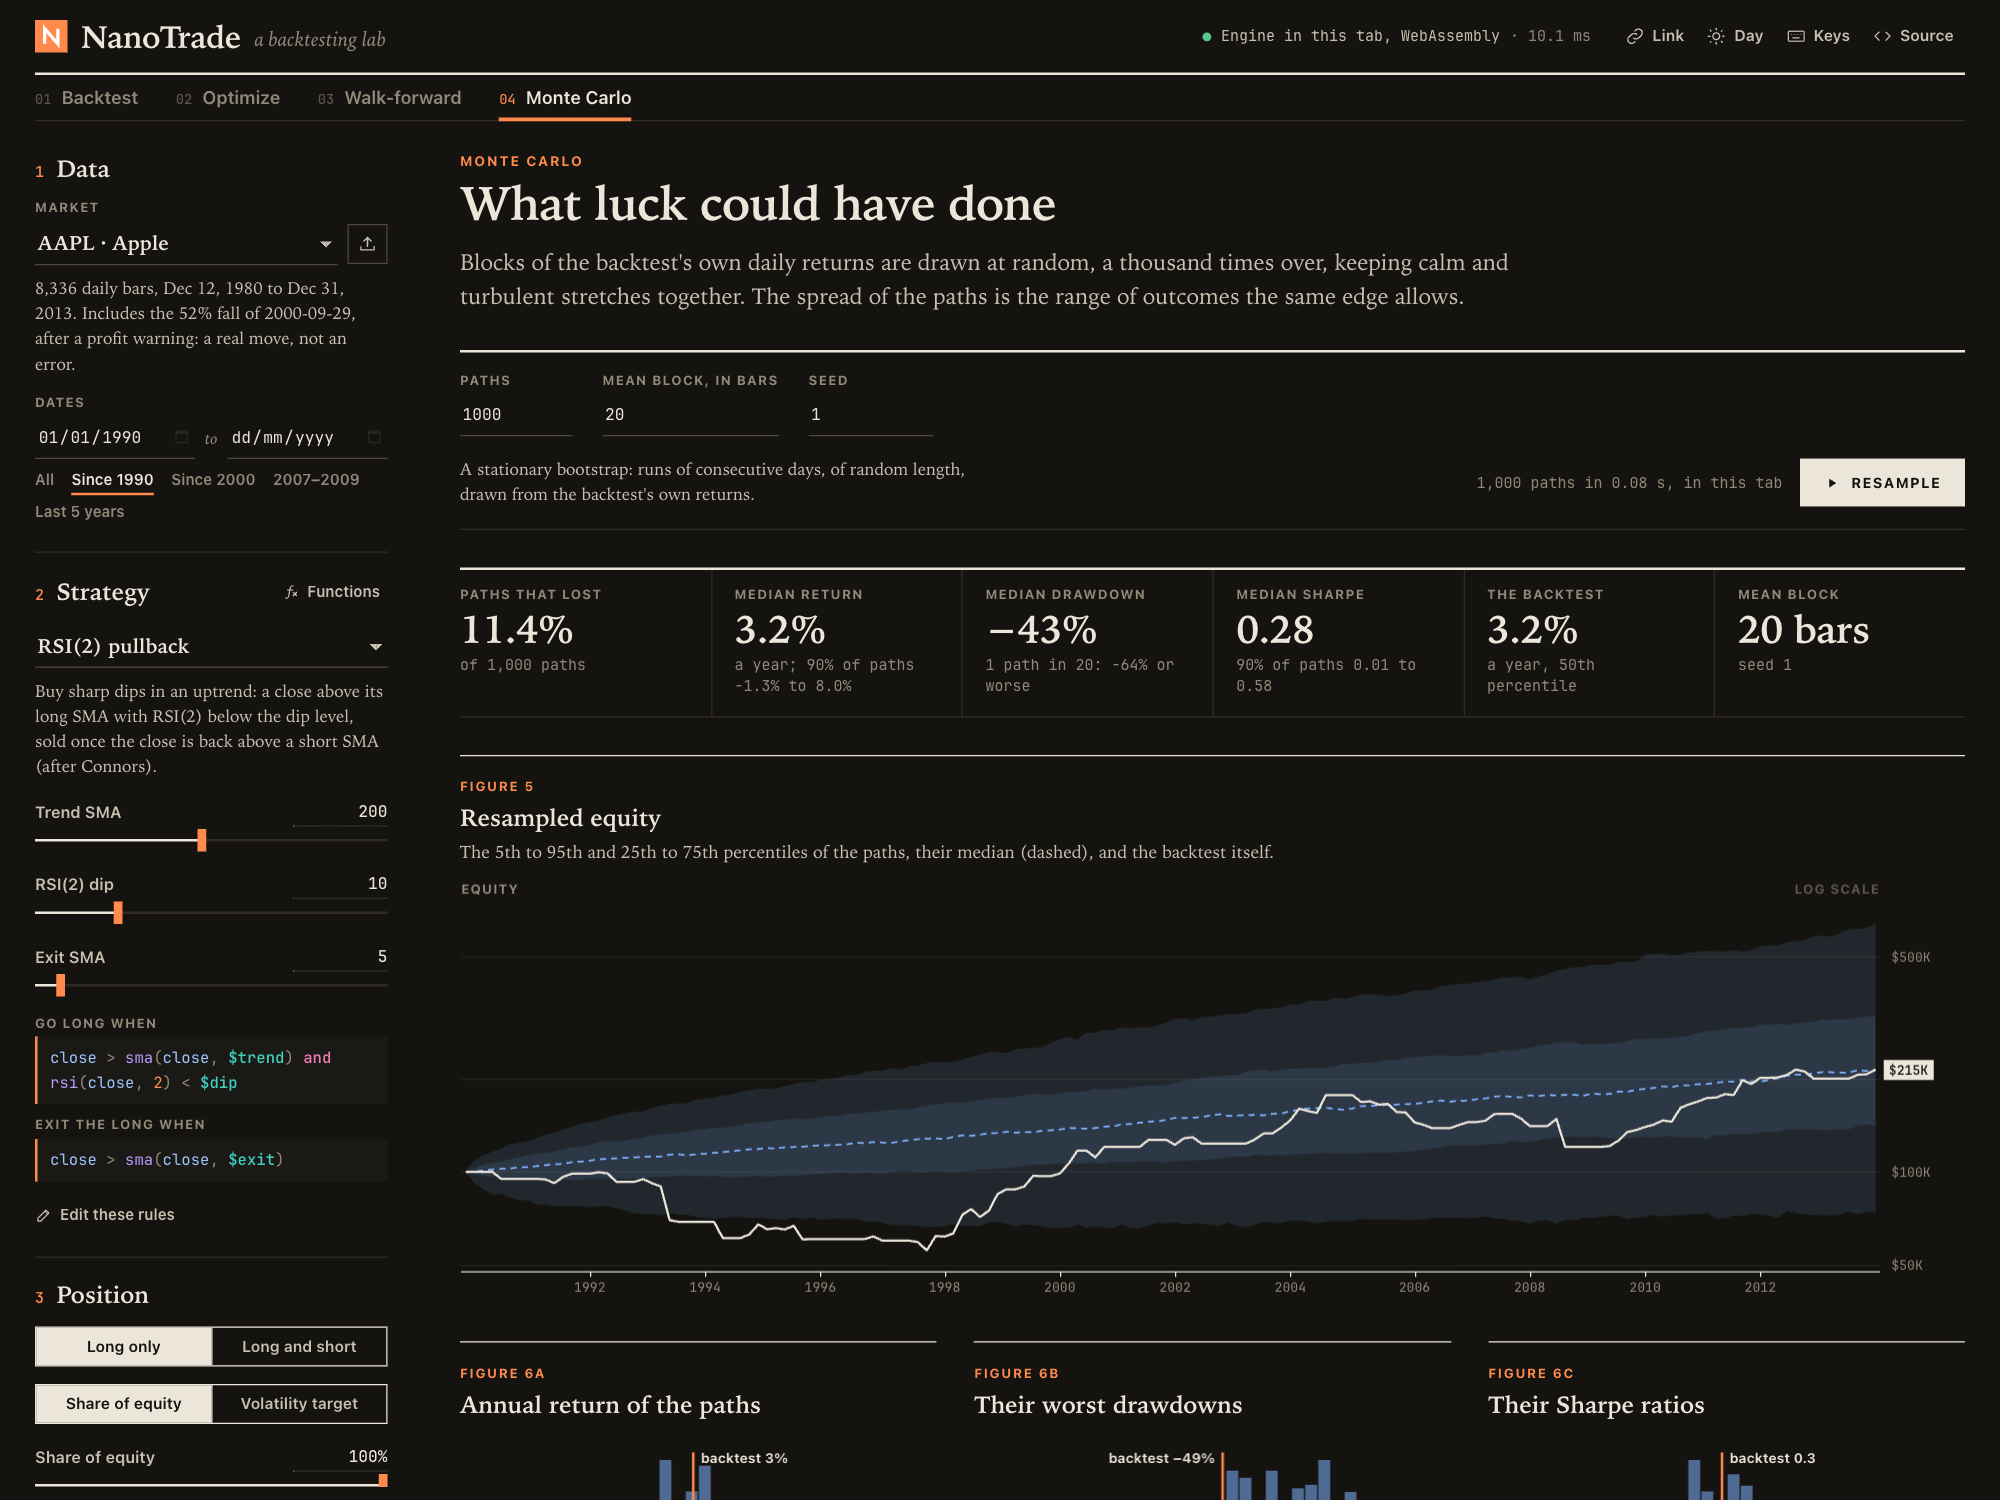
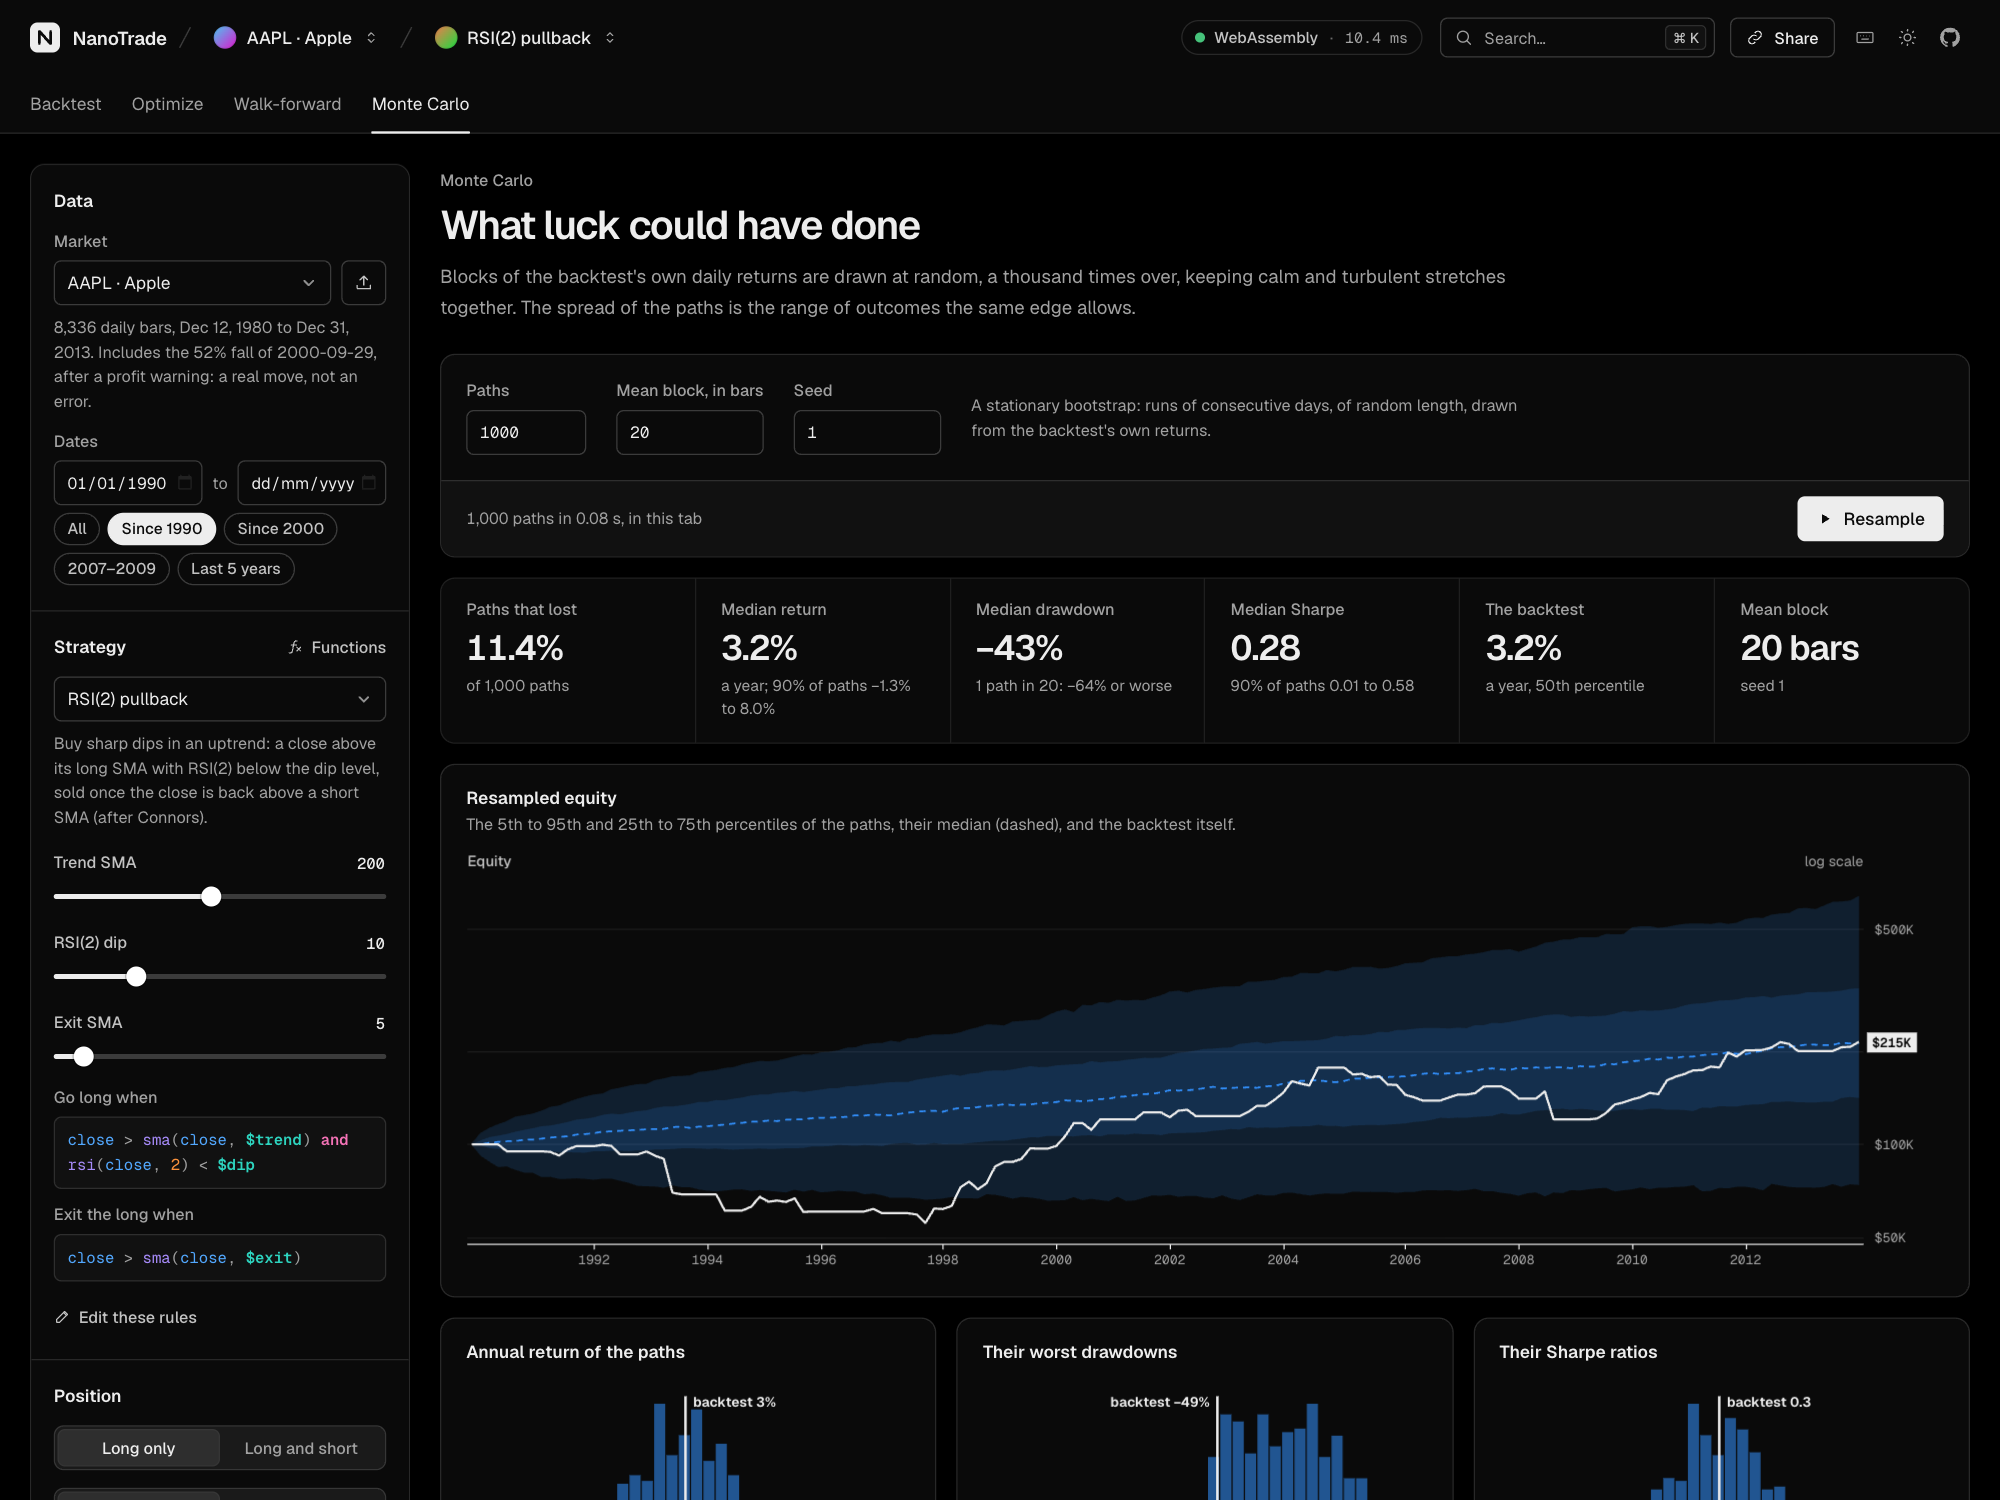
docs: Recapture the lab, and redraw the link preview, in its Geist design
- The link preview is now a white card in the lab's style: Geist, embedded by
  the capture script so the card needs no network; the parameter map in a card
  with the deflated Sharpe ratio and the probability of overfitting in its
  foot; the timings in a strip of cells; and "luck" in Vercel's blue gradient.
- Every README image is taken again: the backtest, the rules with a mistake,
  the three research views, and the phone with its settings sheet.
- The demo finds Boeing in the command menu and switches the strategy back
  from its breadcrumb, before the search, the walk-forward test, resampling,
  and the dark theme.
- The captures emulate the color scheme of the theme they show, so the page
  and its favicon agree whatever the capturing machine's setting.

diff --git a/web/social-card.html b/web/social-card.html
@@ -1,103 +1,123 @@
 <!doctype html>
-<!-- The link-preview card, also the README's header: 1200 by 630. web/capture.mjs fills in the {{PLACEHOLDERS}} with
-     a figure and timings from the lab, and screenshots it into web/social.png. -->
+<!-- The link-preview card, also the README's header: 1200 by 630, in the lab's Geist style. web/capture.mjs fills in the
+     {{PLACEHOLDERS}} with the fonts, a figure, and timings from the lab, and screenshots it into web/social.png. -->
 <html lang="en">
 <head>
 <meta charset="utf-8">
 <style>
+  @font-face { font-family: "Geist"; src: url(data:font/woff2;base64,{{GEIST}}) format("woff2"); font-weight: 100 900; }
+  @font-face { font-family: "Geist Mono"; src: url(data:font/woff2;base64,{{GEIST_MONO}}) format("woff2"); font-weight: 100 900; }
   :root {
-    --paper: #f4efe5;
-    --rule: #d9cfbe;
-    --ink: #1c1a17;
-    --ink-2: #4a443c;
-    --muted: #776f62;
-    --accent: #c2410c;
-    --serif: "Iowan Old Style", "Charter", "Bitstream Charter", Cambria, Georgia, serif;
-    --ui: -apple-system, BlinkMacSystemFont, "Segoe UI", Inter, "Helvetica Neue", Arial, sans-serif;
-    --mono: "SF Mono", SFMono-Regular, ui-monospace, Menlo, Consolas, monospace;
+    --text: #171717;
+    --muted: #666;
+    --border: #eaeaea;
+    --sunken: #fafafa;
+    --ui: "Geist", -apple-system, BlinkMacSystemFont, "Segoe UI", sans-serif;
+    --mono: "Geist Mono", ui-monospace, Menlo, monospace;
   }
   * { box-sizing: border-box; margin: 0; }
   html, body { width: 1200px; height: 630px; overflow: hidden; }
   body {
+    position: relative;
     display: flex;
     flex-direction: column;
-    padding: 42px 56px 36px;
-    background: var(--paper);
-    color: var(--ink);
-    font-family: var(--serif);
+    padding: 40px 56px 34px;
+    background: #fff;
+    color: var(--text);
+    font-family: var(--ui);
+    -webkit-font-smoothing: antialiased;
   }
-  header {
-    display: flex;
-    align-items: center;
-    gap: 14px;
-    padding-bottom: 15px;
-    border-bottom: 2px solid var(--ink);
+  /* A faint grid that fades out toward the middle. */
+  body::before {
+    content: "";
+    position: absolute;
+    inset: 0;
+    z-index: -1;
+    background:
+      linear-gradient(#f0f0f0 1px, transparent 1px) 0 0 / 48px 48px,
+      linear-gradient(90deg, #f0f0f0 1px, transparent 1px) 0 0 / 48px 48px;
+    mask-image: radial-gradient(ellipse 80% 90% at 0% 0%, #000 10%, transparent 70%);
   }
-  header svg { width: 40px; height: 40px; }
-  .name { font-size: 30px; font-weight: 600; letter-spacing: -0.01em; }
-  .kicker {
+  header { display: flex; align-items: center; gap: 12px; }
+  header svg { width: 36px; height: 36px; }
+  .name { font-size: 26px; font-weight: 600; letter-spacing: -0.03em; }
+  .slash { color: #d4d4d4; font-size: 28px; font-weight: 300; }
+  .crumb { color: var(--muted); font-size: 22px; font-weight: 500; letter-spacing: -0.02em; }
+  .badge {
     margin-left: auto;
-    color: var(--accent);
-    font: 600 13px/1 var(--ui);
-    letter-spacing: 0.16em;
-    text-transform: uppercase;
+    padding: 7px 14px;
+    border: 1px solid var(--border);
+    border-radius: 999px;
+    background: #fff;
+    color: var(--muted);
+    font: 500 15px/1 var(--ui);
   }
-  main {
-    display: grid;
-    flex: 1;
-    grid-template-columns: 1fr 548px;
-    gap: 46px;
-    padding-top: 30px;
+  .badge i { display: inline-block; width: 8px; height: 8px; margin-right: 8px; border-radius: 50%; background: #18843a; vertical-align: 1px; }
+  main { display: grid; flex: 1; grid-template-columns: 1fr 540px; gap: 44px; padding-top: 34px; }
+  h1 { font-size: 58px; font-weight: 600; line-height: 1.04; letter-spacing: -0.05em; }
+  h1 em {
+    font-style: normal;
+    background: linear-gradient(90deg, #007cf0, #00dfd8);
+    -webkit-background-clip: text;
+    background-clip: text;
+    color: transparent;
   }
-  h1 { font-size: 56px; font-weight: 600; line-height: 1.03; letter-spacing: -0.022em; }
-  h1 em { color: var(--accent); }
-  .deck { margin-top: 20px; color: var(--ink-2); font-size: 22px; line-height: 1.4; }
+  .deck { margin-top: 18px; color: var(--muted); font-size: 21px; line-height: 1.45; letter-spacing: -0.01em; }
   .facts {
     display: grid;
-    grid-template-columns: repeat(3, auto);
-    justify-content: start;
-    gap: 30px;
-    margin-top: 28px;
-    padding-top: 16px;
-    border-top: 1px solid var(--rule);
+    grid-template-columns: repeat(3, 1fr);
+    margin-top: 26px;
+    overflow: hidden;
+    border: 1px solid var(--border);
+    border-radius: 12px;
+    background: #fff;
+    box-shadow: 0 1px 2px rgba(0, 0, 0, 0.04);
+  }
+  .facts span { padding: 14px 18px 15px; color: var(--muted); font: 500 14px/1.3 var(--ui); }
+  .facts span + span { border-left: 1px solid var(--border); }
+  .facts b { display: block; margin-bottom: 4px; color: var(--text); font: 600 26px/1.1 var(--ui); letter-spacing: -0.03em; font-variant-numeric: tabular-nums; }
+  figure {
+    align-self: start;
+    overflow: hidden;
+    border: 1px solid var(--border);
+    border-radius: 12px;
+    background: #fff;
+    box-shadow: 0 1px 2px rgba(0, 0, 0, 0.04), 0 16px 32px -16px rgba(0, 0, 0, 0.12);
+  }
+  .title { padding: 15px 18px 2px; font: 600 15px/1.3 var(--ui); }
+  .sub { padding: 0 18px 6px; color: var(--muted); font: 13px/1.4 var(--ui); }
+  figure img { display: block; width: 538px; height: 296px; object-fit: contain; object-position: center; }
+  figcaption {
+    display: flex;
+    gap: 26px;
+    padding: 12px 18px 13px;
+    border-top: 1px solid var(--border);
+    background: var(--sunken);
     color: var(--muted);
     font: 500 14px/1.3 var(--ui);
   }
-  .facts b { display: block; margin-bottom: 5px; color: var(--ink); font: 600 25px/1.1 var(--mono); letter-spacing: -0.02em; }
-  figure { padding-top: 10px; border-top: 1px solid var(--rule); }
-  .label {
-    margin-bottom: 10px;
-    color: var(--muted);
-    font: 600 12px/1 var(--ui);
-    letter-spacing: 0.14em;
-    text-transform: uppercase;
-  }
-  figure img {
-    display: block;
-    width: 548px;
-    height: 318px;
-    object-fit: contain;
-    object-position: center;
-  }
-  figcaption { margin-top: 11px; color: var(--ink-2); font-size: 16.5px; line-height: 1.38; }
-  figcaption b { color: var(--ink); font-family: var(--mono); font-size: 15px; font-weight: 600; }
+  figcaption b { display: block; color: var(--text); font: 600 21px/1.15 var(--ui); letter-spacing: -0.03em; }
   footer {
     display: flex;
     justify-content: space-between;
     margin-top: auto;
-    padding-top: 13px;
-    border-top: 1px solid var(--rule);
+    padding-top: 14px;
+    border-top: 1px solid var(--border);
     color: var(--muted);
-    font: 500 15px/1 var(--mono);
+    font: 400 15px/1 var(--mono);
   }
 </style>
 </head>
 <body>
-  <header>{{LOGO}}<span class="name">NanoTrade</span><span class="kicker">A backtesting lab</span></header>
+  <header>
+    <svg viewBox="0 0 32 32"><rect width="32" height="32" rx="8" fill="#171717"/><path d="M10 22.5v-13l12 13v-13" fill="none" stroke="#fff" stroke-width="3" stroke-linecap="round" stroke-linejoin="round"/></svg>
+    <span class="name">NanoTrade</span><span class="slash">/</span><span class="crumb">Backtesting lab</span>
+    <span class="badge"><i></i>Runs in your browser</span>
+  </header>
   <main>
     <div>
       <h1>Backtest a strategy, then ask whether it was <em>luck</em>.</h1>
-      <p class="deck">A C++20 engine with its own rule language, running in your browser in WebAssembly on half a century of daily bars.</p>
+      <p class="deck">A C++20 engine with its own rule language, in WebAssembly, on half a century of daily bars.</p>
       <div class="facts">
         <span><b>{{BARS}}</b>daily bars</span>
         <span><b>{{BACKTEST}}</b>a backtest</span>
@@ -105,9 +125,10 @@
       </div>
     </div>
     <figure>
-      <div class="label">Figure 1 · The parameter map</div>
+      <div class="title">Sharpe ratio across 300 pairs of SMA windows</div>
+      <div class="sub">{{SUBTITLE}}</div>
       <img src="{{FIGURE}}" alt="">
-      <figcaption>{{CAPTION}}</figcaption>
+      <figcaption><span><b>{{DSR}}</b>deflated Sharpe ratio</span><span><b>{{PBO}}</b>probability of overfitting</span></figcaption>
     </figure>
   </main>
   <footer><span>adriantrill.github.io/NanoTrade-Algorithm</span><span>C++20 · WebAssembly · JSON API</span></footer>
